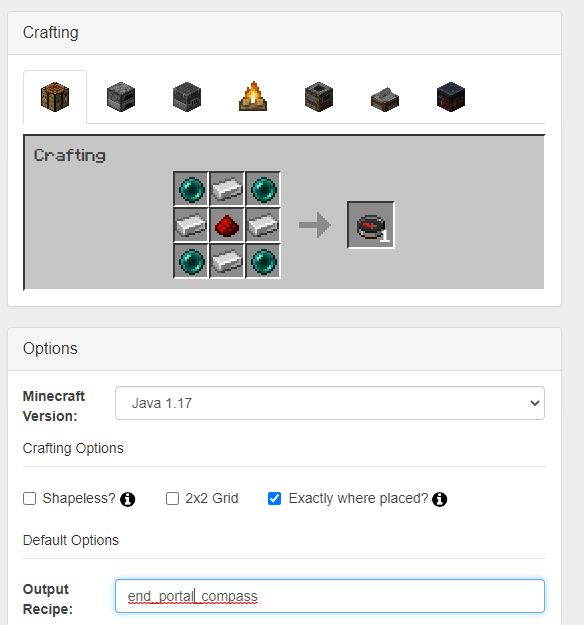
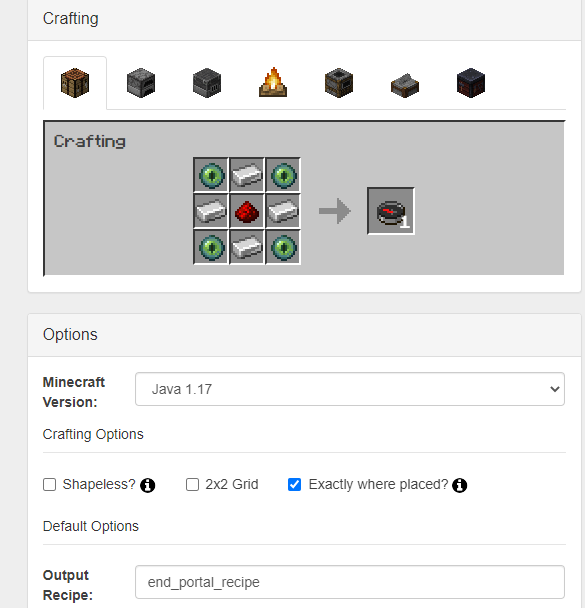
Change end portal recipe

diff --git a/src/main/java/uk/bethan/compassesPlugin/compasses/EndPortalCompass.java b/src/main/java/uk/bethan/compassesPlugin/compasses/EndPortalCompass.java
@@ -18,7 +18,7 @@ public class EndPortalCompass implements Compass {
 
         endPortalCompassRecipe.shape("EIE", "IRI", "EIE");
 
-        endPortalCompassRecipe.setIngredient('E', Material.ENDER_PEARL);
+        endPortalCompassRecipe.setIngredient('E', Material.ENDER_EYE);
         endPortalCompassRecipe.setIngredient('I', Material.IRON_INGOT);
         endPortalCompassRecipe.setIngredient('R', Material.REDSTONE);
 
